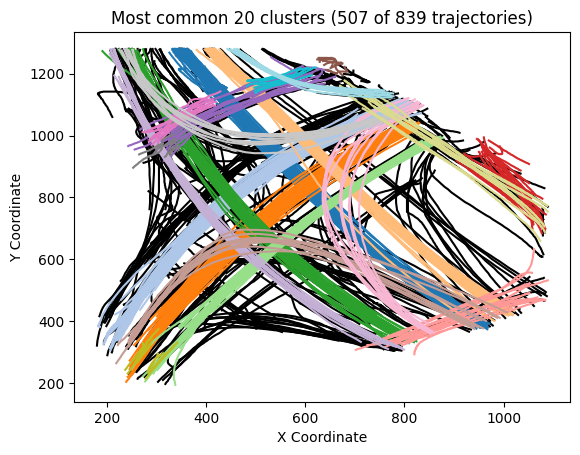
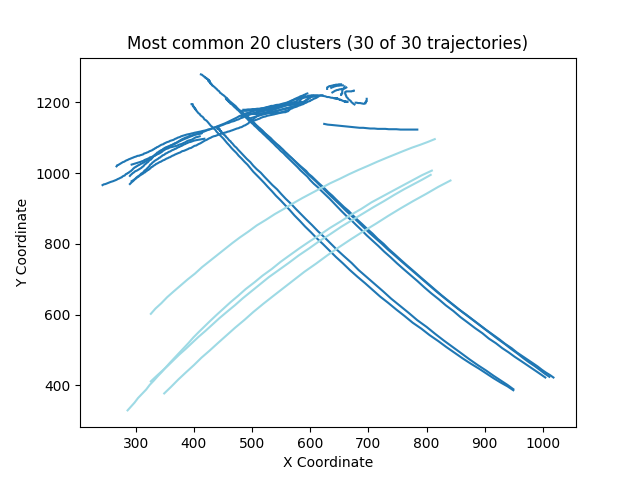
Add generateDistanceMapForLargeData
The execution time will be shorter than the original one when dataset has more than 3000 trajectories.

diff --git a/src/trajectory_processor.py b/src/trajectory_processor.py
@@ -2,20 +2,20 @@ from collections import Counter
 import numpy as np
 from scipy.cluster.hierarchy import linkage, fcluster
 
-def getBigCluster(clusters: list, numMostCommonGroupToDisplay: int) -> dict:
+def getBigCluster(clusters: np.ndarray, numMostCommonGroupToDisplay: int) -> dict:
     """
     Identify and return the largest clusters from a list of clusters.
 
     Args:
-        clusters (list): List of cluster assignments for data points.
+        clusters (np.ndarray): List of cluster assignments for data points.
         numMostCommonGroupToDisplay (int): Number of most common clusters to display.
 
     Returns:
         dict: Dictionary containing the largest clusters and their member indices.
     """
     
-    if not isinstance(clusters, list):
-        raise TypeError("clusters must be a list.")
+    if not isinstance(clusters, np.ndarray):
+        raise TypeError("clusters must be a np.ndarray.")
     if not isinstance(numMostCommonGroupToDisplay, int):
         raise TypeError("numMostCommonGroupToDisplay must be a int.")
     clusterMembers = {}  # Create a dictionary to store cluster memberships
@@ -88,6 +88,75 @@ def generateDistanceMap(parsedTrajectoryList: list, windowSize: int) -> np.ndarr
             if i > j:
                 continue
             distance = 1 - entity.similarity(entity2, windowSize)  # Calculate the similarity
+            distanceMap[i][j] = distance
+            distanceMap[j][i] = distance
+
+    print(f'All trajectories have been processed')
+
+    return distanceMap
+
+def generateDistanceMapForLargeData(parsedTrajectoryList: list, windowSize: int) -> np.ndarray:
+    """
+    Generate a similarity-based distance map for a list of trajectories using the concept of Dilation in image processing.
+    The distance is calculated based on how many coordinates of both trajectories are near each other.
+    The execution time will be shorter when dataset has more than 3000 prajectories.
+
+    Args:
+        parsedTrajectoryList (list): A list of Trajectory instances.
+        windowSize (int): The size of the window for similarity calculation.
+
+    Returns:
+        numpy.ndarray: A NumPy array containing the similarity-based distance map.
+    """
+    if not isinstance(parsedTrajectoryList, list):
+        raise TypeError("parsedTrajectoryList must be a list.")
+    if not isinstance(windowSize, int):
+        raise TypeError("windowSize must be a int.")
+    print(f'There are {len(parsedTrajectoryList)} trajectories in the dataset')
+
+    distanceMap = np.zeros((len(parsedTrajectoryList), len(parsedTrajectoryList)))
+
+    xMaxList = []
+    yMaxList = []
+
+    # Calculate the maximum x and y coordinates 
+    for i, entity in enumerate(parsedTrajectoryList):
+        x_coords, y_coords = entity.trajExport()
+        xMaxList.append(max(x_coords))
+        yMaxList.append(max(y_coords))
+
+    xMax = max(xMaxList)
+    yMax = max(yMaxList)
+
+    trajAreaList = []
+
+    # Calculate the area occupied by each trajectory in the space
+    for i, entity in enumerate(parsedTrajectoryList):
+
+        areaMap = np.zeros((int(xMax + windowSize/2) + 1, int(yMax + windowSize/2) + 1))
+        x_coords, y_coords = entity.trajExport()
+
+        for x, y in zip(x_coords, y_coords):
+            areaMap[int(x - windowSize/2):int(x + windowSize/2), int(y - windowSize/2):int(y + windowSize/2)] = 1
+
+        trajAreaList.append(areaMap)
+
+    for i, entity in enumerate(parsedTrajectoryList):
+        disArray = []  # Initialize an array to store distances from the current entity
+
+        if i % 10 == 0:
+            print(f'{i} of {len(parsedTrajectoryList)} trajectories has been processed')
+
+        # Calculate similarity with all other trajectories
+        for j, entity2 in enumerate(parsedTrajectoryList):
+            if i > j:
+                continue
+            
+            # Calculate the difference in areas and the similarity distance
+            diff = np.absolute(trajAreaList[i] - trajAreaList[j])
+            distance = np.sum(diff) / (np.sum(trajAreaList[i]) + np.sum(trajAreaList[j]))
+
+            # Assign the calculated distance to the distance map
             distanceMap[i][j] = distance
             distanceMap[j][i] = distance
 

diff --git a/main.py b/main.py
@@ -16,10 +16,11 @@ def main():
         None
     """
     # Define hyper-parameters
-    windowSize = 200  # The window size for trajectory comparison
-    distanceThreshold = 0.5  # The threshold for merge clusters
+    
+    windowSize = 200  # The window size for trajectory comparison in similarity calculation. Bigger value indicate merging the trajectories with further distance into the same cluster.
+    distanceThreshold = 0.8  # The threshold for merging clusters. Bigger value indicate merging the trajectories with further distance into the same cluster.
     sampleSize = 1000  # The number of trajectories to process
-    numMostCommonGroupToDisplay = 30  # The number of trajectories clusters shown on the full picture
+    numMostCommonGroupToDisplay = 20  # The number of trajectory clusters to show
 
     # Read and parse trajectory data from the JSON file
     with open(r'data/trajectories.json') as dataFile:
